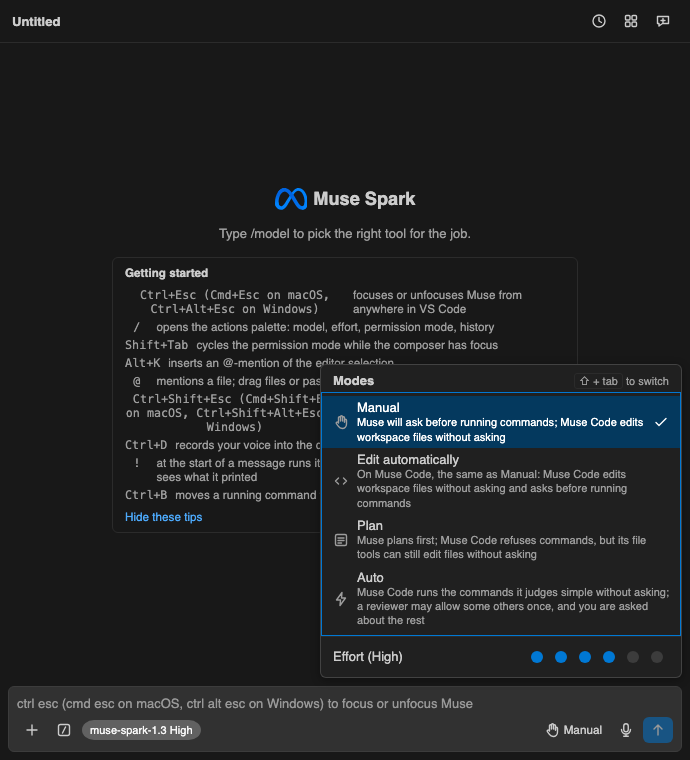
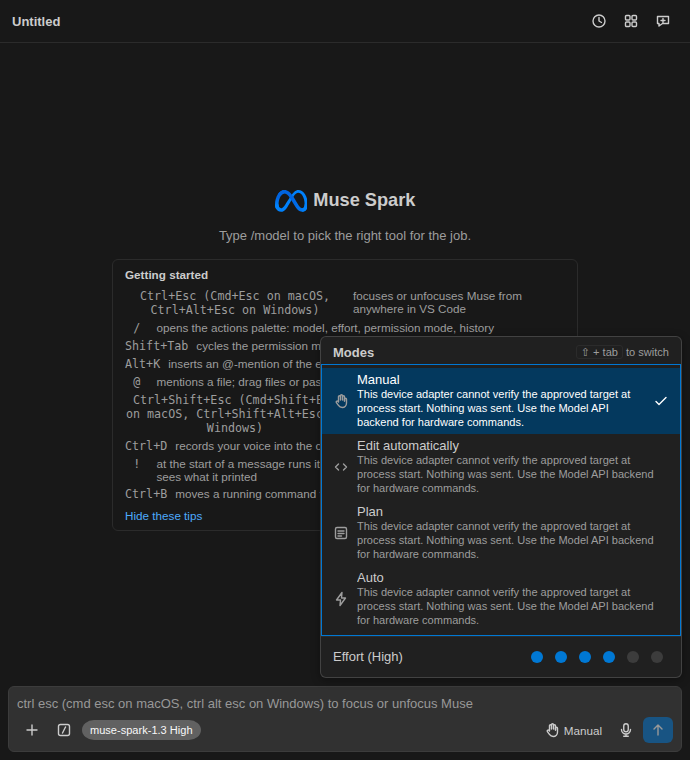
fix(m103): retain hardware mode help in the browser fallback

diff --git a/src/shared/l10n/en.ts b/src/shared/l10n/en.ts
@@ -2568,6 +2568,9 @@ export const EN = {
     other:
       'The checks still failed after {count} rounds of fixes in a row, so they will not run again automatically until your next message.',
   }),
+  // Shared with the hardware Muse Code Modes menu; retain in browser fallback.
+  hardwareBindingUnavailable:
+    'This device adapter cannot verify the approved target at process start. Nothing was sent. Use the Model API backend for hardware commands.',
   // M103-G: the always-on physical-action guard.
   approvalHardwareNote:
     'Physical device action. Opening a serial port may reset the board. Review the exact command and target; approval applies once and expires after two minutes.',
@@ -2578,8 +2581,6 @@ export const EN = {
   hardwareActuateWarning: 'This looks like it writes to a port or sends a machine command.',
   hardwareIrreversibleWarning: 'This looks like an irreversible fuse, eFuse or lock-bit write.',
   hardwareTargetNote: 'Target binding: {targets}',
-  hardwareBindingUnavailable:
-    'This device adapter cannot verify the approved target at process start. Nothing was sent. Use the Model API backend for hardware commands.',
   hardwareRefused:
     'This device operation is refused. Review and run the command yourself in your own terminal.',
   hardwareUnattended:

diff --git a/docs/certification/m103-g.md b/docs/certification/m103-g.md
@@ -813,6 +813,16 @@ instead of resuming hardware sessions. No MSP field was invented.
 P3: the hardware Muse Code Modes menu uses the existing translated
 `hardwareBindingUnavailable` text for every mode, explaining the Model API
 migration. The App regression fails on the base; no localization key changed.
+Production screenshot inspection also exposed that the browser build removed
+this formerly host-only English key. Its placement now precedes that stripped
+block; translations and the pruning rule are unchanged. The actual esbuild
+fallback regression in `hardwareBrowserText.test.mjs` failed on `39144b519`
+and passes with the retained key. A retention mutation also fails it.
+The updated dark screenshot shows all four modes and readable migration text;
+Bypass is absent. Capture used the repository's Playwright `withSizedPage`
+helper against the production bundle and fake harness. The Chrome CLI capture
+stalled without writing an image; its owned browser was terminated and that
+attempt is not claimed as visual evidence.
 
 Nine current-source mutation drills ran complete owning files through an
 in-memory Vite transform. Production files were never mutated on disk;

diff --git a/PLAN.md b/PLAN.md
@@ -4931,6 +4931,9 @@ repository timeout. All five typechecks and unchanged static/build gates
 follow. Fakes/simulators only; shared core covers every editor/runtime.
 The P3 Modes-menu finding uses the existing translated migration text in
 latched Muse Code sessions; ordinary and Model API descriptions stay accurate.
+That key must live outside the host-only English block removed by the browser
+build. An actual browser-fallback bundle regression and production screenshot
+prove the message ships; all translated tables and bundle caps stay unchanged.
 
 **Fourth design (REDM103G3, lead ruling after RVM103G3).** Every agent shell
 command in a hardware session asks the host UI once for the exact command;

diff --git a/CHANGELOG.md b/CHANGELOG.md
@@ -14,7 +14,8 @@ happened, not what was planned; superseded entries are kept.
   messages/follow-ups and goal wakes. Select the actual workspace owner; reject
   mismatched leases. Read stored sessions before refusing hardware resume, so
   the CLI cannot restart queued hardware work. Hardware Modes help directs
-  Muse Code users to Model API.
+  Muse Code users to Model API; its message ships in the browser's English
+  fallback as well as the installed language table.
 
 - **Design 5 hardware review: Stop and marker failures.** Model API Stop
   transport failures now fail their row and tell the user delivery is
